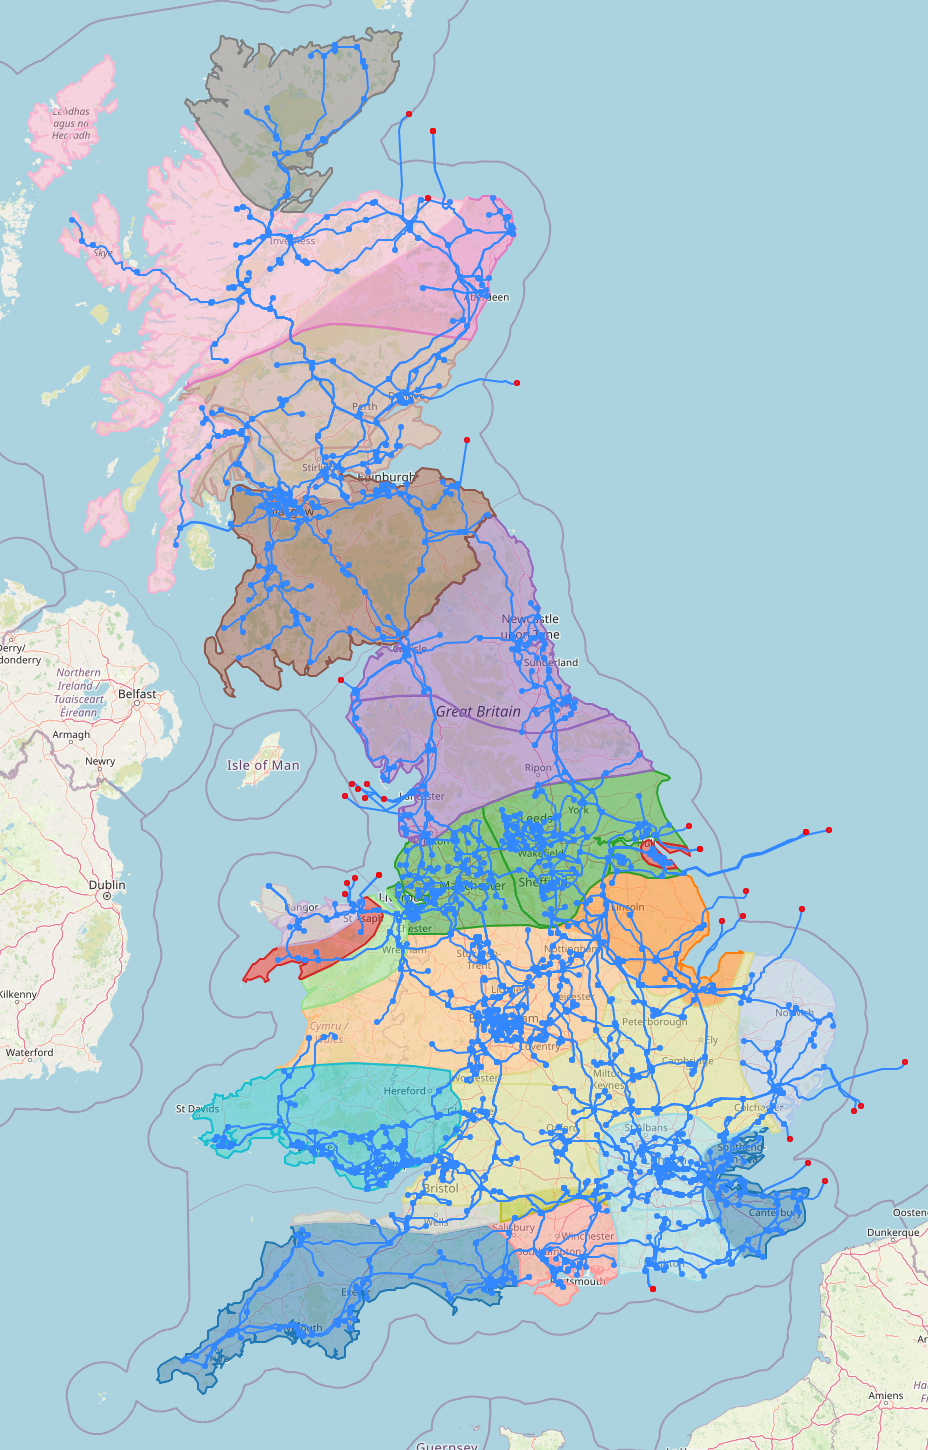
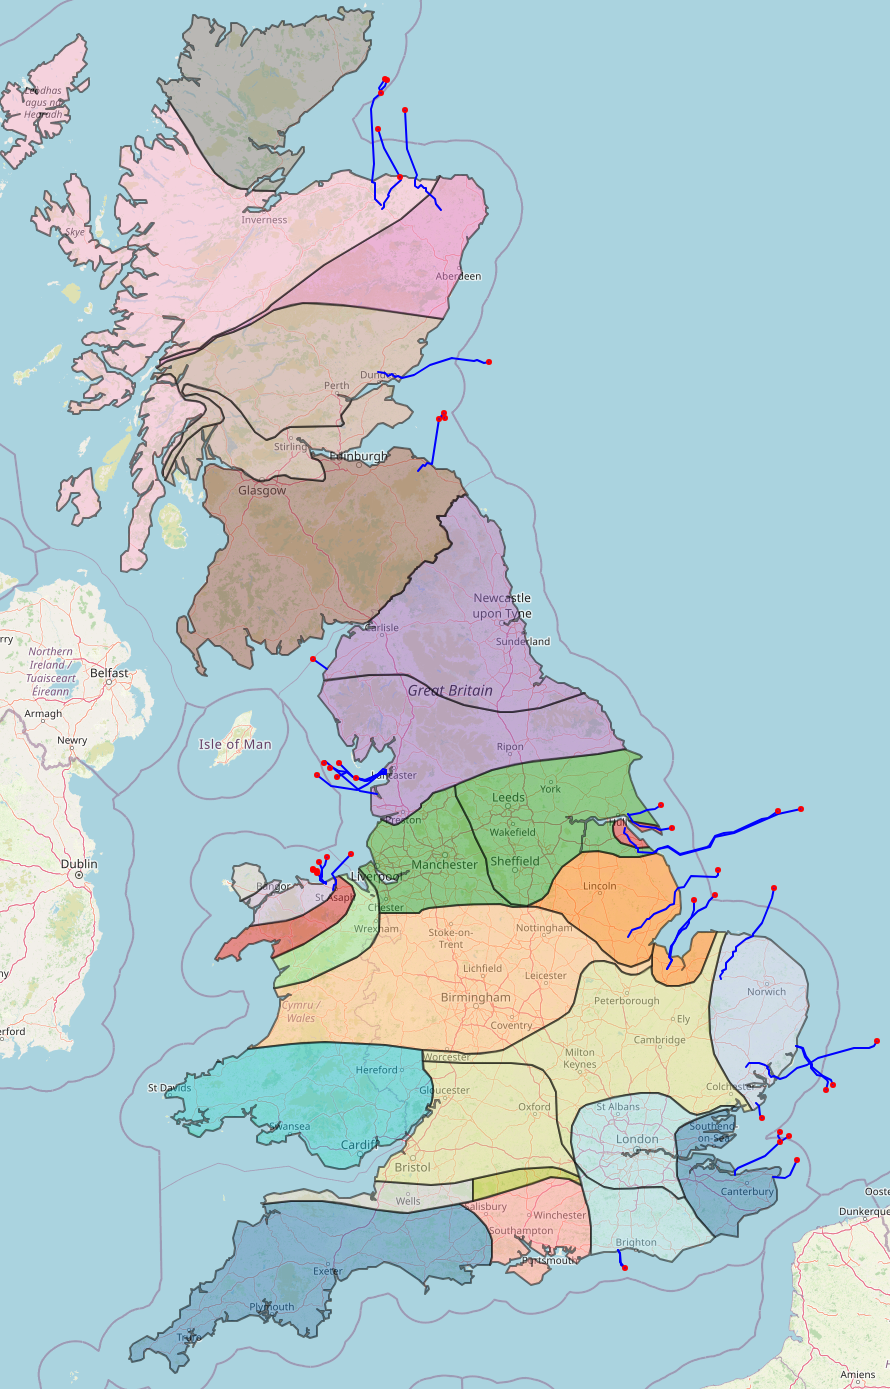
Handle offshore bus chaining

diff --git a/scripts/gb_model/transmission/identify_regions_for_offshore_buses.py b/scripts/gb_model/transmission/identify_regions_for_offshore_buses.py
@@ -12,6 +12,7 @@ from pathlib import Path
 import geopandas as gpd
 import pandas as pd
 import pypsa
+from shapely import Point
 
 from scripts._helpers import configure_logging, set_scenario_config
 
@@ -37,25 +38,57 @@ def create_busmap(
         pd.Series: Series mapping each bus to its associated region.
     """
 
-    gb_lines = gpd.sjoin(lines, regions.to_crs(lines.crs))
-    gb_buses = gpd.sjoin(buses, gb_lines[["geometry", "region", "line_id"]])
-    offshore_buses = gpd.overlay(gb_buses, regions, how="difference").drop_duplicates(
-        "bus_id"
+    # Identify offshore buses that are connected to onshore buses
+    offshore_buses = _get_offshore_buses(lines, buses, regions, regions[["geometry"]])
+
+    # Next, identify offshore buses that are themselves only connected to other offshore buses
+    all_offshore_buses = _get_offshore_buses(
+        lines, buses, regions, offshore_buses[["geometry", "bus_id"]]
     )
-    onshore_buses = offshore_buses.apply(
-        _get_onshore_bus, args=(buses, network), axis=1
+
+    onshore_buses = all_offshore_buses.apply(
+        _get_onshore_bus, args=(buses, network, all_offshore_buses), axis=1
     )
-    onshore_buses.index = offshore_buses.bus_id
-    onshore_points = gpd.GeoSeries(onshore_buses, crs=offshore_buses.crs)
+    onshore_buses.index = all_offshore_buses.bus_id
+    onshore_points = gpd.GeoSeries(onshore_buses, crs=all_offshore_buses.crs)
     busmap = gpd.sjoin(
         onshore_points.reset_index(), regions.to_crs(onshore_points.crs), how="left"
     ).set_index("bus_id")["region"]
     return busmap
 
 
-def _get_onshore_bus(
-    bus_series: gpd.GeoSeries, buses: gpd.GeoDataFrame, network: pypsa.Network
+def _get_offshore_buses(
+    lines: gpd.GeoDataFrame,
+    buses: gpd.GeoDataFrame,
+    regions: gpd.GeoDataFrame,
+    lines_in: gpd.GeoDataFrame,
 ) -> gpd.GeoDataFrame:
+    """
+    Identify offshore buses based on line and region geometries.
+
+    Args:
+        lines (gpd.GeoDataFrame): GeoDataFrame containing line geometries.
+        buses (gpd.GeoDataFrame): GeoDataFrame containing bus geometries.
+        regions (gpd.GeoDataFrame): GeoDataFrame containing region geometries.
+        lines_in (gpd.GeoDataFrame): GeoDataFrame with geometries for which we want lines to overlap for us to consider them.
+
+    Returns:
+        gpd.GeoDataFrame: GeoDataFrame containing offshore buses.
+    """
+    relevant_lines = gpd.sjoin(lines, lines_in.to_crs(lines.crs))
+    relevant_buses = gpd.sjoin(buses, relevant_lines[["geometry", "line_id"]])
+    offshore_buses = gpd.overlay(
+        relevant_buses, regions.to_crs(buses.crs), how="difference"
+    )
+    return offshore_buses.drop_duplicates("bus_id")
+
+
+def _get_onshore_bus(
+    bus_series: gpd.GeoSeries,
+    buses: gpd.GeoDataFrame,
+    network: pypsa.Network,
+    all_offshore_buses: gpd.GeoDataFrame,
+) -> Point:
     """
     Resolve duplicate bus mappings by prioritising the closest region among the duplicates.
 
@@ -72,7 +105,18 @@ def _get_onshore_bus(
         .difference([bus_series.bus_id])
         .pop()
     )
-    onshore_bus_point = buses.set_index("bus_id").loc[other_bus, "geometry"]
+    if other_bus in all_offshore_buses.bus_id.values:
+        logger.info(
+            "Identifying busmap for offshore bus %s connected to another offshore bus %s",
+            bus_series.bus_id,
+            other_bus,
+        )
+        other_bus_series = all_offshore_buses[
+            all_offshore_buses.bus_id == other_bus
+        ].iloc[0]
+        return _get_onshore_bus(other_bus_series, buses, network, all_offshore_buses)
+    else:
+        onshore_bus_point = buses.set_index("bus_id").loc[other_bus, "geometry"]
     return onshore_bus_point
 
 
